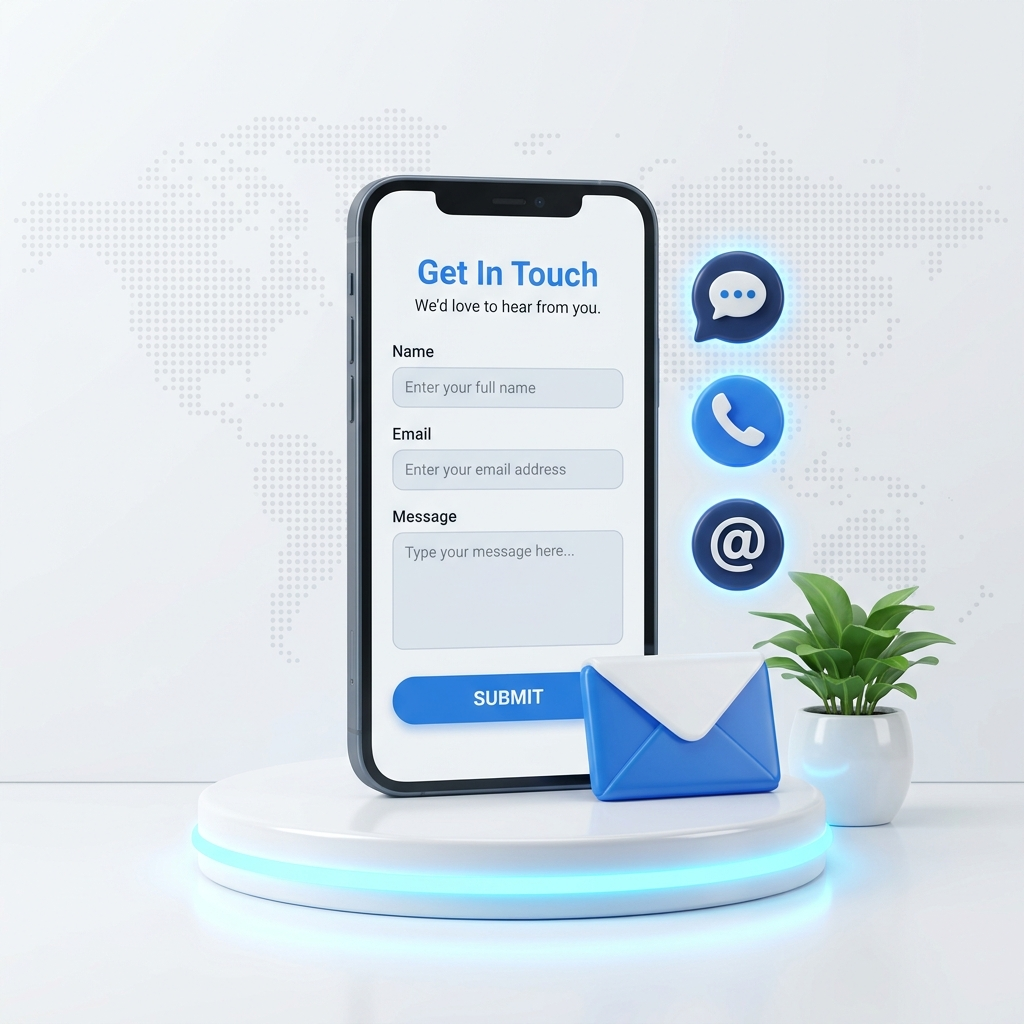
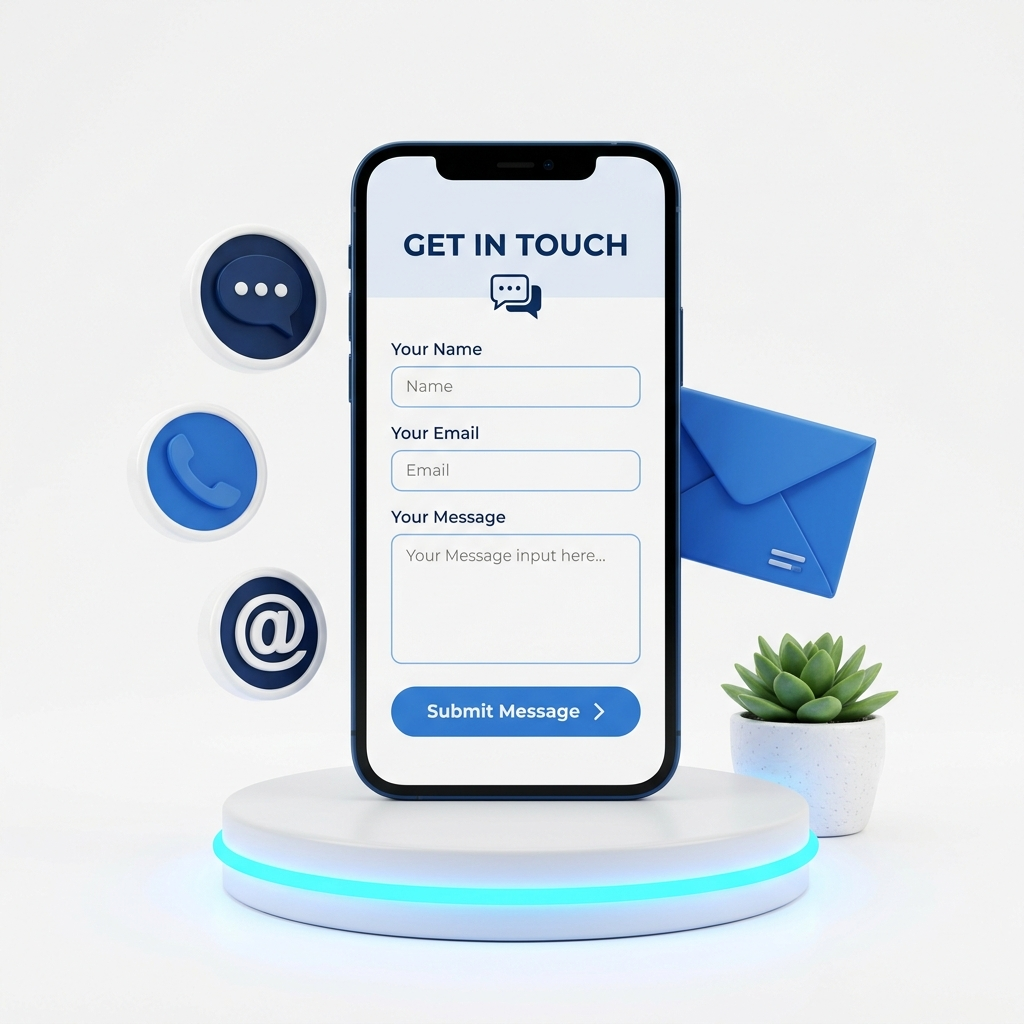
7

Changed region(s): [[0.125, 0.125, 1.0, 0.9375], [0.7188, 0.9688, 0.75, 1.0], [0.5938, 0.9688, 0.625, 1.0]]

diff --git a/src/app/contact/page.tsx b/src/app/contact/page.tsx
@@ -9,21 +9,21 @@ export default function Contact() {
   return (
     <PageTransition>
       {/* Custom Contact Hero matching the user's 3D image layout */}
-      <section className="relative w-full min-h-screen flex items-center bg-[var(--background)] overflow-hidden pt-24 pb-12">
-        {/* Dotted Background to simulate the map texture */}
-        <div className="absolute inset-0 z-0 opacity-10" style={{ backgroundImage: "radial-gradient(circle at 3px 3px, var(--foreground) 1px, transparent 0)", backgroundSize: "24px 24px" }}></div>
+      <section className="relative w-full min-h-screen flex items-center bg-white overflow-hidden pt-24 pb-12">
+        {/* Dotted Background using the dedicated world map image */}
+        <div className="absolute inset-0 z-0 opacity-40 mix-blend-multiply" style={{ backgroundImage: "url('/dotted_world_map_bg.png')", backgroundSize: "cover", backgroundPosition: "center" }}></div>
         
         {/* Soft primary gradient matching the vibe */}
-        <div className="absolute top-0 left-0 w-1/2 h-full opacity-[0.05] z-0 pointer-events-none" style={{ background: "linear-gradient(to bottom right, var(--primary), transparent)" }}></div>
+        <div className="absolute top-0 left-0 w-1/2 h-full opacity-[0.03] z-0 pointer-events-none" style={{ background: "linear-gradient(to bottom right, var(--primary), transparent)" }}></div>
 
         <div className="w-full px-6 md:px-12 lg:px-20 xl:px-32 mx-auto flex flex-col lg:flex-row items-center relative z-10 gap-10 lg:gap-16">
           {/* Left Content */}
           <div className="w-full lg:w-1/2 flex flex-col items-start text-left z-20">
-            <Text3DBounce as="h1" className="text-[3.5rem] md:text-[5rem] lg:text-[6.5rem] font-black leading-[1.1] mb-2 tracking-tight drop-shadow-sm font-sans" style={{ color: "var(--foreground)" }}>
+            <Text3DBounce as="h1" className="text-5xl sm:text-6xl md:text-[5rem] lg:text-[6.5rem] font-black leading-[1.1] mb-2 tracking-tight drop-shadow-sm font-sans whitespace-nowrap" style={{ color: "var(--foreground)" }}>
               Contact Us
             </Text3DBounce>
             
-            <h2 className="text-[1.75rem] md:text-[2.5rem] lg:text-[3.25rem] font-bold leading-[1.2] mb-6 tracking-tight" style={{ color: "var(--foreground)" }}>
+            <h2 className="text-3xl sm:text-4xl md:text-[2.5rem] lg:text-[3.25rem] font-bold leading-[1.2] mb-6 tracking-tight" style={{ color: "var(--foreground)" }}>
               Start Your Digital <br className="hidden lg:block" />
               <span style={{ color: "var(--primary)" }}>Transformation Journey</span>
             </h2>
@@ -50,9 +50,12 @@ export default function Contact() {
           
           {/* Right Image */}
           <div className="w-full lg:w-1/2 relative flex justify-center items-center mt-16 lg:mt-0">
-            <ImageReveal className="relative z-10 w-full max-w-[850px] ml-auto">
-              <img src="/contact_hero_3d.png" alt="Contact Us 3D Illustration" className="w-full h-auto object-contain mix-blend-multiply scale-105 lg:scale-110 lg:translate-x-8 gsap-float" style={{ filter: "hue-rotate(105deg)" }} />
-            </ImageReveal>
+            {/* mix-blend-multiply is placed on a non-animated wrapper to prevent CSS composite layer bugs with GSAP */}
+            <div className="relative z-10 w-full max-w-[950px] ml-auto mix-blend-multiply">
+              <div className="w-full h-full gsap-float">
+                <img src="/contact_hero_3d.png" alt="Contact Us 3D Illustration" className="w-full h-auto object-contain brightness-105 contrast-105 scale-110 lg:scale-125 lg:translate-x-12" />
+              </div>
+            </div>
             
             {/* Soft backdrop glow to enhance the 3D effect */}
             <div className="absolute top-1/2 left-1/2 -translate-x-1/2 -translate-y-1/2 w-[100%] h-[100%] rounded-full blur-3xl -z-10 pointer-events-none opacity-20" style={{ backgroundColor: "var(--primary)" }}></div>
@@ -72,6 +75,38 @@ export default function Contact() {
         
         <ContactSection />
       </div>
+
+      {/* Location Map Section Matching User Design */}
+      <section className="w-full py-24 bg-[var(--background)] relative flex flex-col items-center px-6 md:px-12 lg:px-20 xl:px-32">
+        {/* Pill Badge */}
+        <div className="flex items-center gap-3 px-5 py-2 bg-white rounded-full shadow-sm mb-6 border border-gray-100">
+          <div className="w-2.5 h-2.5 rounded-full bg-red-600 shadow-[0_0_8px_rgba(220,38,38,0.6)]"></div>
+          <span className="text-xs font-bold tracking-widest text-slate-800 uppercase">Where We Are Located</span>
+        </div>
+        
+        {/* Heading matching the exact website style */}
+        <h2 className="text-[1.75rem] md:text-[2.5rem] lg:text-[3.25rem] font-bold leading-[1.2] mb-6 tracking-tight text-center" style={{ color: "var(--foreground)" }}>
+          Find Our Office Location Easily
+        </h2>
+        
+        {/* Description */}
+        <p className="text-center text-slate-600 max-w-2xl mb-14 text-lg font-medium">
+          Our office is conveniently located in Noida's prime tech hub, making it simple for clients and partners to visit us for consultations and collaborations.
+        </p>
+
+        {/* Map Container - Reduced height and max-width to make it "thinner" and less huge */}
+        <div className="w-full max-w-[1100px] h-[350px] md:h-[450px] mx-auto bg-gray-200 rounded-3xl overflow-hidden shadow-2xl relative border-8 border-white group">
+          <iframe 
+            src="https://www.google.com/maps/embed?pb=!1m18!1m12!1m3!1d14013.125219420559!2d77.3175402602715!3d28.591321458284566!2m3!1f0!2f0!3f0!3m2!1i1024!2i768!4f13.1!3m3!1m2!1s0x390ce4f62e84d41b%3A0xc638a16dbd7daaa1!2sSector%208%2C%20Noida%2C%20Uttar%20Pradesh%20201301%2C%20India!5e0!3m2!1sen!2sus!4v1700000000000!5m2!1sen!2sus" 
+            width="100%" 
+            height="100%" 
+            style={{ border: 0 }} 
+            allowFullScreen={true} 
+            loading="lazy"
+            className="filter contrast-[1.05] saturate-[1.1] transition-transform duration-700 group-hover:scale-105"
+          ></iframe>
+        </div>
+      </section>
     </PageTransition>
   );
 }

diff --git a/src/app/about/page.tsx b/src/app/about/page.tsx
@@ -5,6 +5,7 @@ import { motion } from "framer-motion";
 import gsap from "gsap";
 import { ScrollTrigger } from "gsap/ScrollTrigger";
 import PageTransition from "@/components/PageTransition";
+import { Text3DBounce } from "@/components/animations/SplitTextAnimations";
 import PageHero from "@/components/PageHero";
 import { Shield, Zap, Target, Lightbulb, Users, Globe } from "lucide-react";
 import AboutUsSection from "@/components/AboutUsSection";
@@ -80,12 +81,43 @@ export default function About() {
 
   return (
     <PageTransition>
-      <PageHero 
-        subtitle="WHO WE ARE"
-        title="ABOUT US" 
-        description="Pioneering the AI Frontier. We are a collective of engineers, data scientists, and designers dedicated to helping ambitious companies outpace their competition by embracing the AI revolution."
-        image="/service_ai_automation.png"
-      />
+      {/* Custom About Hero matching the user's 3D image layout & theme colors */}
+      <section className="relative w-full min-h-screen flex items-center bg-white overflow-hidden pt-24 pb-12">
+        {/* Dotted Background using the dedicated world map image */}
+        <div className="absolute inset-0 z-0 opacity-40 mix-blend-multiply" style={{ backgroundImage: "url('/dotted_world_map_bg.png')", backgroundSize: "cover", backgroundPosition: "center" }}></div>
+        
+        {/* Soft primary gradient matching the vibe */}
+        <div className="absolute top-0 left-0 w-1/2 h-full opacity-[0.03] z-0 pointer-events-none" style={{ background: "linear-gradient(to bottom right, var(--primary), transparent)" }}></div>
+
+        <div className="w-full px-6 md:px-12 lg:px-20 xl:px-32 mx-auto flex flex-col lg:flex-row items-center relative z-10 gap-10 lg:gap-16">
+          {/* Left Content */}
+          <div className="w-full lg:w-1/2 flex flex-col items-start text-left z-20">
+            <Text3DBounce as="h1" className="text-[3.5rem] md:text-[5rem] lg:text-[6.5rem] font-black leading-[1.1] mb-4 tracking-tight drop-shadow-sm font-sans" style={{ color: "var(--foreground)" }}>
+              About us
+            </Text3DBounce>
+            
+            <div className="text-xl md:text-2xl font-bold mb-8 tracking-tight flex gap-2">
+              <span style={{ color: "var(--primary)" }}>Home</span>
+              <span className="text-gray-400">/</span>
+              <span style={{ color: "var(--foreground)" }}>About Us</span>
+            </div>
+            
+            <div className="w-16 h-1 mb-8" style={{ backgroundColor: "var(--primary)" }}></div>
+            
+            <p className="text-slate-600 text-lg md:text-xl leading-relaxed mb-10 max-w-md font-medium">
+              We build intelligent software and AI-powered solutions that help businesses grow.
+            </p>
+          </div>
+          
+          {/* Right Image */}
+          <div className="w-full lg:w-1/2 relative flex justify-center items-center mt-16 lg:mt-0">
+            <img src="/about_hero_3d.png" alt="About Us 3D Illustration" className="relative z-10 w-full max-w-[850px] ml-auto h-auto object-contain gsap-float scale-105 lg:scale-110 lg:translate-x-8" style={{ filter: "hue-rotate(15deg) saturate(1.1)" }} />
+            
+            {/* Soft backdrop glow to enhance the 3D effect */}
+            <div className="absolute top-1/2 left-1/2 -translate-x-1/2 -translate-y-1/2 w-[100%] h-[100%] rounded-full blur-3xl -z-10 pointer-events-none opacity-20" style={{ backgroundColor: "var(--primary)" }}></div>
+          </div>
+        </div>
+      </section>
       <div className="pb-20 px-6 min-h-screen">
 
         {/* Sections from Home Page as requested */}